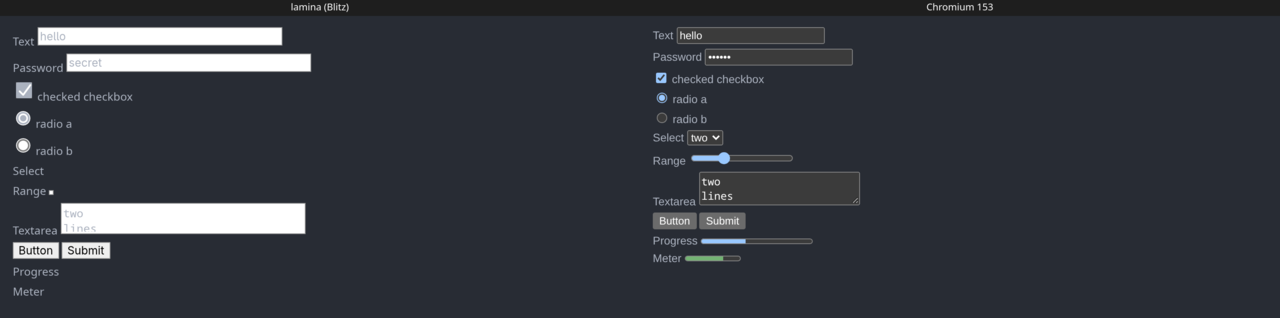
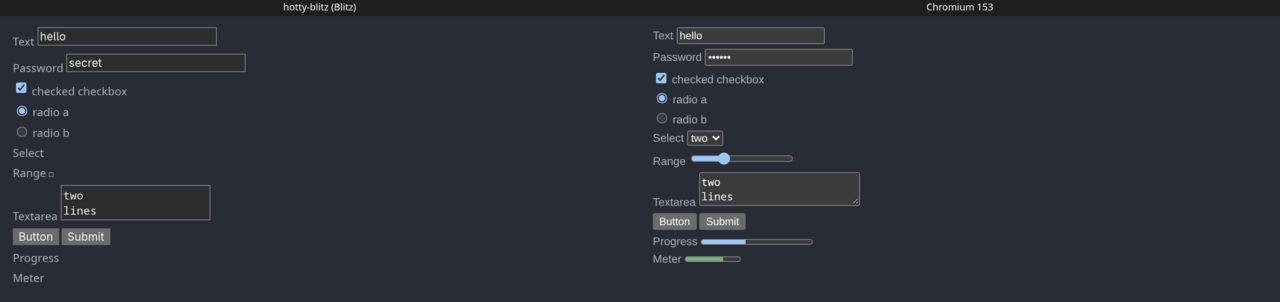
Blitz fork: text fields are as wide as their size, textareas their cols
ask.ts's `<input size="12">` was 300px wide. Blitz gave every text input
300px, or the available width when less, whatever its `size`. A textarea
was 300px wide unless it had `cols`, and rows × 1.2em tall, which cut
off its last row in a font with taller metrics.

Patch 0012 counts characters as Chromium does: the primary font's
average character width, or the advance of `0`. An input is `size`
characters wide (20 by default), plus the font's widest glyph less one
character. A textarea is `cols` characters wide (20 by default) and
`rows` lines tall (2 by default), each line as tall as Parley lays the
text out. For Noto Sans and Noto Sans Mono at 16px, every width matches
Chromium 153's to the pixel. Nothing changes in the C ABI or for
terminals.

tests/host.rs: text_controls_are_as_wide_as_size_and_cols_and_as_tall_as_rows
fails without the patch. docs/fidelity/05-forms.png is read again with
0011 and 0012.

diff --git a/crates/hotty-blitz/tests/host.rs b/crates/hotty-blitz/tests/host.rs
@@ -1357,6 +1357,61 @@ fn a_new_color_scheme_repaints_controls_like_a_fresh_document() {
 }
 
 #[test]
+fn text_controls_are_as_wide_as_size_and_cols_and_as_tall_as_rows() {
+    // Blitz fork 0012. A width depends on the font, so this checks what it
+    // counts: characters of one width, and for `size` the font's widest
+    // glyph once more. Each control has a 1px border and 2px of padding.
+    let mut h = host();
+    doc_at(
+        &mut h,
+        "x",
+        &[],
+        "<style>body{margin:0} input,textarea,div{position:absolute;left:0;margin:0;font:16px monospace}
+         .px{line-height:20px}</style>
+         <input id=d style='top:0'><input id=s20 size=20 style='top:30px'>
+         <input id=s12 size=12 style='top:60px'><input id=s4 size=4 style='top:90px'>
+         <input id=s0 size=0 style='top:120px'>
+         <textarea id=t class=px style='top:150px'></textarea>
+         <textarea id=c20 class=px cols=20 rows=2 style='top:200px'></textarea>
+         <textarea id=c10 class=px cols=10 rows=3 style='top:250px'></textarea>
+         <textarea id=n rows=2 style='top:320px'></textarea>
+         <div id=lines style='top:400px'>a<br>b</div>",
+        "30",
+    );
+    let size = |id: &str, top: f32| {
+        let (x, y) = h.element_centre("x", id).unwrap();
+        (2.0 * x, 2.0 * (y - top))
+    };
+    let w = |id: &str, top: f32| size(id, top).0;
+
+    assert_eq!(w("d", 0.0), w("s20", 30.0), "size is 20 by default");
+    assert_eq!(w("s0", 120.0), w("s20", 30.0), "and when it is not above 0");
+    let (w20, w12, w4) = (w("s20", 30.0), w("s12", 60.0), w("s4", 90.0));
+    assert!(w4 < w12 && w12 < w20, "{w4} {w12} {w20}");
+    let ch = (w20 - w12) / 8.0;
+    assert!(((w12 - w4) / 8.0 - ch).abs() <= 0.25, "{w4} {w12} {w20}");
+
+    let (c20, c10) = (w("c20", 200.0) - 6.0, w("c10", 250.0) - 6.0);
+    assert_eq!(w("t", 150.0), c20 + 6.0, "cols is 20 by default");
+    assert!((c20 - 2.0 * c10).abs() <= 1.0, "{c10} {c20}");
+    assert!((c10 - 10.0 * ch).abs() <= 2.5, "cols counts what size does");
+
+    assert_eq!(size("t", 150.0).1, 2.0 * 20.0 + 6.0, "rows is 2 by default");
+    assert_eq!(size("c20", 200.0).1, 2.0 * 20.0 + 6.0);
+    assert_eq!(size("c10", 250.0).1, 3.0 * 20.0 + 6.0);
+    // With `line-height: normal`, a row is a line as the text lays it out.
+    let two_lines = size("lines", 400.0).1;
+    assert!(
+        (size("n", 320.0).1 - 6.0 - two_lines).abs() <= 1.0,
+        "{two_lines}"
+    );
+    assert!(
+        (size("d", 0.0).1 - 6.0 - two_lines / 2.0).abs() <= 1.0,
+        "a field, one"
+    );
+}
+
+#[test]
 fn what_is_local_stays_on_a_detached_surface() {
     let mut h = host();
     doc_at(

diff --git a/blitz/README.md b/blitz/README.md
@@ -20,6 +20,7 @@ changes upstream is an open question.
 | `0009-blitz-dom-*` | an inline SVG's `<image>` draws what the document fetches for it (below) |
 | `0010-blitz-dom-*` | an `<img>` chooses its source again when the device changes (below) |
 | `0011-blitz-dom-blitz-paint-*` | form controls follow the used color scheme (below) |
+| `0012-blitz-dom-*` | text controls are as wide as `size` and `cols`, as tall as `rows` (below) |
 
 ```
 scripts/blitz-fork.sh        # clones Blitz to ../blitz, branch hotty, applies the patches
@@ -38,7 +39,8 @@ drawn at all. A box resized only through its containing block keeps its
 old overflow, and paint can cull it. An SVG can draw any image file on the
 disk, and an `<img>` loads its `src` alone, never a `srcset` or a
 `<picture>` source. An inline SVG's `<image>` draws no `cid:` resource
-and nothing from the network. Form controls are light on a dark terminal.
+and nothing from the network. Form controls are light on a dark terminal,
+and every text input is 300px wide, whatever its `size`.
 
 ## Form controls in the color scheme
 
@@ -58,6 +60,26 @@ The shades come from Stylo's system colors, so a dark field is #2D2D2D
 where Chromium's is #3B3B3B, and a light button #DCDCDC where it is
 #EFEFEF. hotty-blitz's `form_controls_follow_the_used_color_scheme` and
 `a_new_color_scheme_repaints_controls_like_a_fresh_document` check it.
+
+## Text control sizes
+
+Upstream makes a text input 300px wide, or the available width when
+that is less, whatever its `size`, and a textarea 300px wide unless it
+has `cols`. The fork counts characters as Chromium does:
+- one character is the primary font's average width (OS/2
+  `xAvgCharWidth`), or the advance of `0`;
+- an input is `size` characters wide (20 by default), plus the font's
+  widest glyph less one character;
+- a textarea is `cols` characters wide (20 by default), with no scrollbar
+  gutter, because Blitz's scrollbars are overlays;
+- a row (`rows`, 2 by default) is the line height, which for
+  `line-height: normal` is the font's own, as Parley lays the text out,
+  rather than 1.2em.
+
+For Noto Sans and Noto Sans Mono at 16px, every width matches Chromium's
+to the pixel. hotty-blitz's
+`text_controls_are_as_wide_as_size_and_cols_and_as_tall_as_rows` checks
+it.
 
 ## SVG images load no files
 

diff --git a/docs/fidelity/README.md b/docs/fidelity/README.md
@@ -3,7 +3,10 @@
 `make oracle` renders every page of the HOTTY corpus twice, at 80 columns of 20×42 px
 cells (scale 2), with the same host stylesheet (`hotty css`): once by
 `hotty render`, once by headless Chromium 153 (Playwright). Left is hotty-blitz,
-right is Chromium. Read on 2026-09-29, Blitz `674d7d2`.
+right is Chromium. Read on 2026-09-29, Blitz `674d7d2`; 05-forms again on
+2026-10-06, with the Blitz fork's patches through 0012 (`blitz/README.md`).
+Blitz still draws no `<select>`, range, progress or meter, and shows a
+password field's text.
 
 | page | tests |
 | --- | --- |
